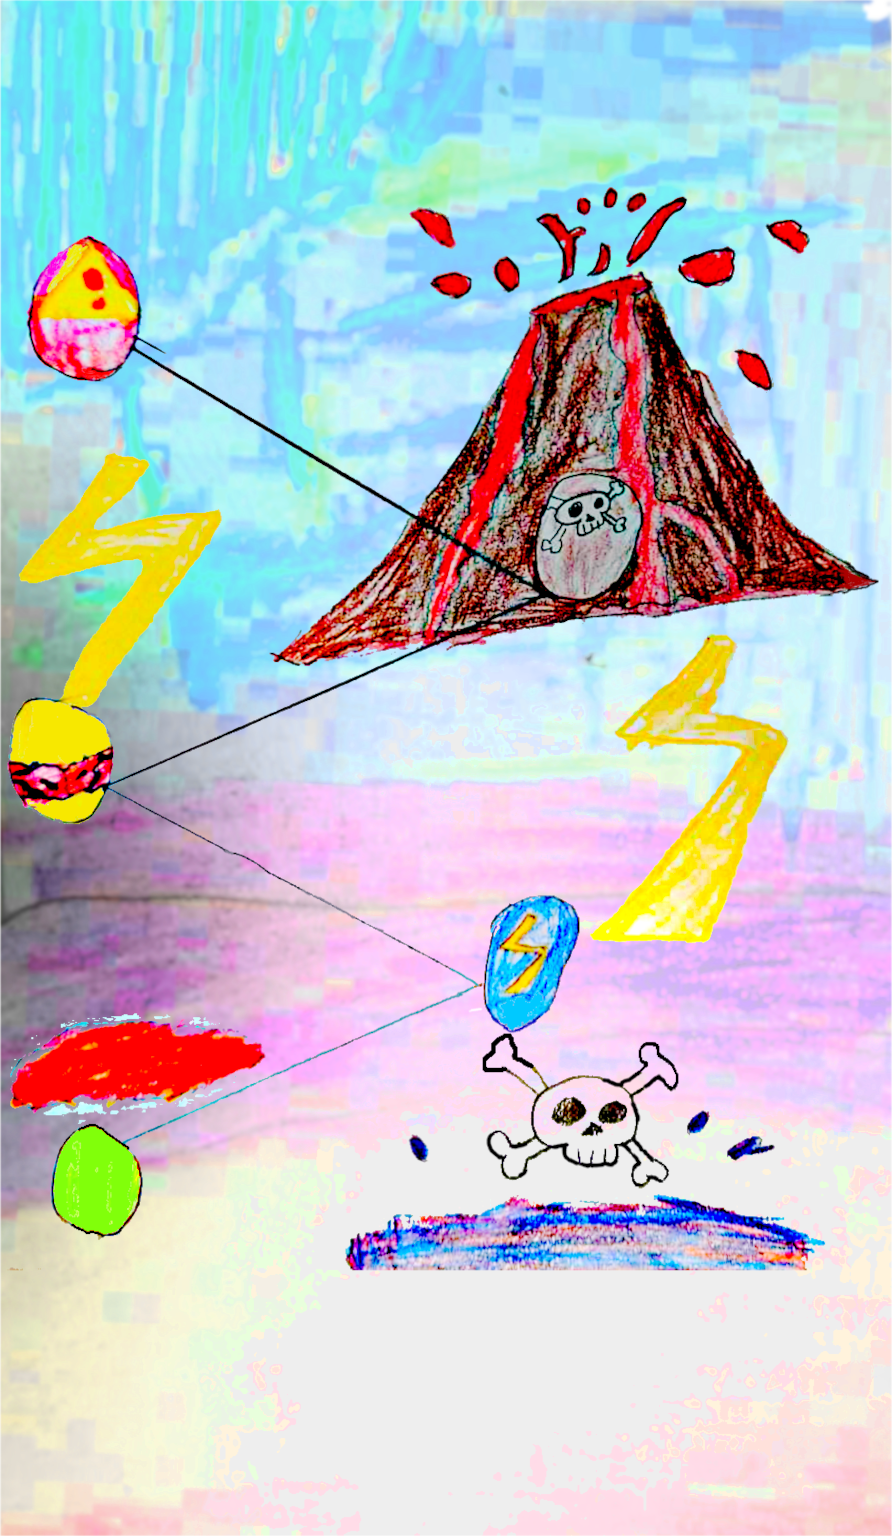
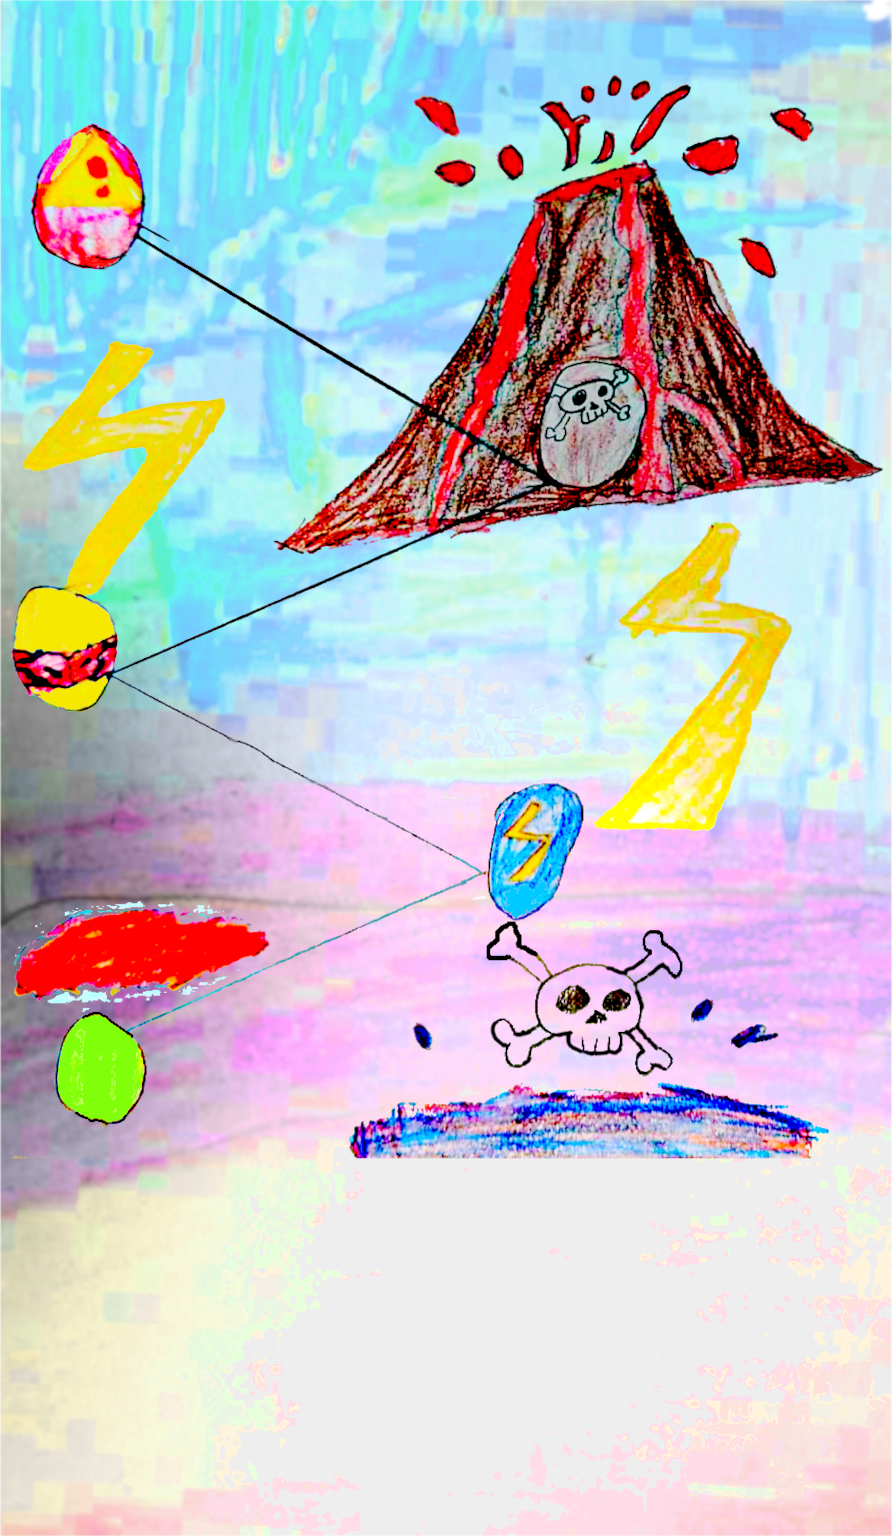
Add files via upload

diff --git a/stage_select.js b/stage_select.js
@@ -1,60 +1,83 @@
-// 1. 各ステージのデータ（座標と魔法陣の色）
+// 1. 各ステージのデータ
 const stages = [
-    { id: 1, name: "はじまりの地", x: 50, y: 75, color: "#4ade80" },
-    { id: 2, name: "雷の草原",     x: 30, y: 60, color: "#facc15" },
-    { id: 3, name: "火の山麓",     x: 70, y: 45, color: "#f87171" },
-    { id: 4, name: "ドクロ火山",   x: 40, y: 30, color: "#b91c1c" },
-    { id: 5, name: "最果ての地",   x: 50, y: 15, color: "#a855f7" }
+    { id: 1, name: "はじまりの地", x: 10, y: 75, color: "#4ade80" },
+    { id: 2, name: "雷の草原",     x: 60, y: 50, color: "#facc15" },
+    { id: 3, name: "火の山麓",     x: 10, y: 35, color: "#f87171" },
+    { id: 4, name: "ドクロ火山",   x: 70, y: 20, color: "#b91c1c" },
+    { id: 5, name: "最果ての地",   x: 10, y: 5, color: "#a855f7" }
 ];
 
-// 保存キーの定義（これが無いとエラーになります）
 const SAVE_KEY = 'hacksla_data';
 
-// 要素の取得（HTMLのIDと一致させています）
+// 要素の取得
 const cursor = document.getElementById('selection-cursor');
 const decideBtn = document.getElementById('decide-btn');
 const stageTitle = document.getElementById('stage-title');
 const stageDesc = document.getElementById('stage-description');
 
-// セーブデータから現在の進捗を読み込み
-const savedDataRaw = localStorage.getItem(SAVE_KEY);
-const savedData = savedDataRaw ? JSON.parse(savedDataRaw) : { unlockedStage: 1 };
-const currentUnlocked = Number(savedData.unlockedStage) || 1;
-
-// 初期選択インデックスの設定
-let currentIndex = currentUnlocked - 1;
-if (currentIndex < 0) currentIndex = 0;
-if (currentIndex >= stages.length) currentIndex = stages.length - 1;
-
+// 現在のインデックス（あとで初期化関数で上書きします）
+let currentIndex = 0;
 // 選択状態を更新する関数
 function updateSelection() {
     const stage = stages[currentIndex];
     
-    // 魔法陣（カーソル）の位置移動
+    // 魔法陣の位置移動
     if (cursor) {
         cursor.style.left = stage.x + "%";
         cursor.style.top = stage.y + "%";
-        
-        // 解放状況の再確認
-        const checkData = JSON.parse(localStorage.getItem(SAVE_KEY) || '{"unlockedStage": 1}');
-        const unlocked = Number(checkData.unlockedStage) || 1;
+    }
 
-        if (stage.id <= unlocked) {
-            // 解放済み
-            if (stageTitle) stageTitle.innerText = "ステージ " + stage.id;
-            if (stageDesc) stageDesc.innerText = stage.name;
-            if (decideBtn) decideBtn.disabled = false;
+    // 最新の解放状況を取得
+    const savedData = JSON.parse(localStorage.getItem(SAVE_KEY) || '{"unlockedStage": 1}');
+    const unlocked = Number(savedData.unlockedStage) || 1;
+
+    if (stage.id <= unlocked) {
+        // --- 【解放済み】 ---
+        if (stageTitle) stageTitle.innerText = "ステージ " + stage.id;
+        if (stageDesc) stageDesc.innerText = stage.name;
+        if (decideBtn) {
+            decideBtn.disabled = false;
+            
+            // ★追加：クリア済み（現在の解放ステージより前のID）なら★を付ける
+            if (stage.id < unlocked) {
+                decideBtn.innerText = "★ 出撃！"; 
+            } else {
+                decideBtn.innerText = "決定"; 
+            }
+        }
+        
+        if (cursor) {
             cursor.style.filter = `drop-shadow(0 0 15px ${stage.color})`;
             cursor.style.opacity = "1";
-        } else {
-            // 未解放
-            if (stageTitle) stageTitle.innerText = "？？？";
-            if (stageDesc) stageDesc.innerText = "ボスを倒して解放";
-            if (decideBtn) decideBtn.disabled = true;
-            cursor.style.filter = "grayscale(100%) brightness(50%)";
+        }
+    } else {
+        // --- 【未解放】 ---
+        if (stageTitle) stageTitle.innerText = "？？？";
+        if (stageDesc) stageDesc.innerText = "ボスを倒して解放";
+        if (decideBtn) {
+            decideBtn.disabled = true;
+            decideBtn.innerText = "決定"; // ロック時は通常の文字
+        }
+        if (cursor) {
+            cursor.style.filter = "grayscale(100%) brightness(40%)";
             cursor.style.opacity = "0.5";
         }
     }
+}
+
+// 初期化関数：セーブデータを見て位置を確定させる
+function init() {
+    const savedData = JSON.parse(localStorage.getItem(SAVE_KEY) || '{"unlockedStage": 1}');
+    const unlocked = Number(savedData.unlockedStage) || 1;
+    
+    // リセット直後(unlocked=1)なら currentIndex=0 (ステージ1) になる
+    currentIndex = unlocked - 1;
+
+    // 範囲外防止
+    if (currentIndex < 0) currentIndex = 0;
+    if (currentIndex >= stages.length) currentIndex = stages.length - 1;
+
+    updateSelection();
 }
 
 // ボタンのクリックイベント
@@ -75,5 +98,5 @@ decideBtn.onclick = () => {
     window.location.href = 'battle.html';
 };
 
-// 初回表示
-updateSelection();
+// 起動時に初期化を実行
+window.onload = init;

diff --git a/stage_select_style.css b/stage_select_style.css
@@ -129,3 +129,26 @@ body {
     opacity: 0.8;
     transform: scale(0.96);
 }
+
+#home-return-button {
+    position: absolute;
+    top: 20px;
+    right: 20px; /* 左上に配置 */
+    z-index: 110; /* UIより前面に */
+    
+    background: rgba(0, 0, 0, 0.7);
+    color: #ffffff;
+    border: 1px solid #ff4500;
+    padding: 8px 15px;
+    border-radius: 15px;
+    font-size: 0.9rem;
+    font-weight: bold;
+    cursor: pointer;
+    backdrop-filter: blur(4px);
+    box-shadow: 0 2px 10px rgba(0,0,0,0.5);
+}
+
+#home-return-button:active {
+    transform: scale(0.95);
+    background: rgba(80, 80, 80, 0.8);
+}

diff --git a/stage_select.html b/stage_select.html
@@ -8,23 +8,19 @@
 </head>
 <body>
     <div class="stage-container">
-        <!-- 3D回転カーソル本体 -->
+        <!-- 1. 拠点へ戻るボタン（左上に配置） -->
+        <button id="home-return-button" onclick="location.href='home.html'">
+            ◀ 拠点へ
+        </button>
+
+        <!-- 2. 3D回転カーソル（魔法陣） -->
         <div id="selection-cursor">
             <div class="layer layer1"></div>
             <div class="layer layer2"></div>
             <div class="layer layer3"></div>
         </div>
 
-        <!-- 非表示のノードエリア -->
-        <div class="stage-nodes-container" style="display:none;">
-            <div class="stage-node" data-stage-id="1"></div>
-            <div class="stage-node" data-stage-id="2"></div>
-            <div class="stage-node" data-stage-id="3"></div>
-            <div class="stage-node" data-stage-id="4"></div>
-            <div class="stage-node" data-stage-id="5"></div>
-        </div>
-
-        <!-- UIエリア（操作パネル） -->
+        <!-- 3. UIエリア（下部に中央寄せで配置） -->
         <div class="stage-ui-wrapper">
             <!-- ステージ情報表示 -->
             <div id="stage-info">
@@ -38,7 +34,7 @@
                 <button id="decide-btn" class="stage-btn">決定</button>
                 <button id="next-btn" class="stage-btn control-btn">次へ→</button>
             </div>
-        </div> <!-- ui-wrapper 閉じ -->
+        </div> 
     </div> <!-- stage-container 閉じ -->
 
     <script src="stage_select.js"></script>